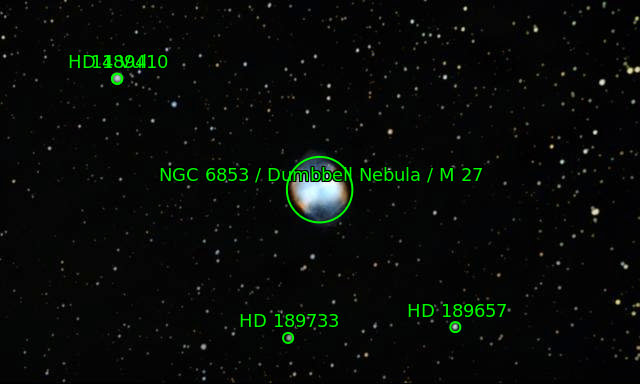
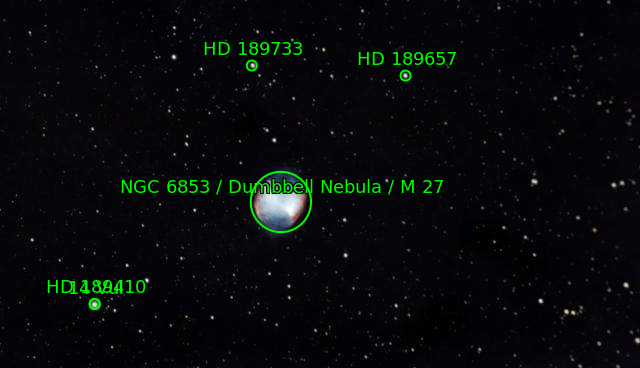
Versión 1.0

diff --git a/Reports/collection.tex b/Reports/collection.tex
@@ -104,6 +104,12 @@ The Andromeda Galaxy is a barred spiral galaxy and is the nearest major galaxy t
 }\ \\
 \includegraphics[width=\textwidth]{/home/lcv/Dropbox/AstroPhotography/Imaging/Grayscale/Ghost_Of_Cassiopeia.jpg}
 \begin{center}
+ \ \newpage
+\includegraphics[width=0.75\textwidth]{/home/lcv/Dropbox/AstroPhotography/Imaging/Annotated/Ghost_Of_Cassiopeia_Annotated}
+
+\includegraphics[height=5cm]{/home/lcv/Dropbox/AstroPhotography/Imaging/Annotated/Ghost_Of_Cassiopeia_Globe}
+\includegraphics[height=5cm]{/home/lcv/Dropbox/AstroPhotography/Imaging/Annotated/Ghost_Of_Cassiopeia_Close.jpg}
+\includegraphics[height=5cm]{/home/lcv/Dropbox/AstroPhotography/Imaging/Annotated/Ghost_Of_Cassiopeia_Closer.jpg}
 \end{center}
 \section{HD225526}
 \includegraphics[width=\textwidth]{/home/lcv/Dropbox/AstroPhotography/Imaging/Original/HD225526.jpg}
@@ -112,6 +118,12 @@ The Andromeda Galaxy is a barred spiral galaxy and is the nearest major galaxy t
 }\ \\
 \includegraphics[width=\textwidth]{/home/lcv/Dropbox/AstroPhotography/Imaging/Grayscale/HD225526.jpg}
 \begin{center}
+ \ \newpage
+\includegraphics[width=0.75\textwidth]{/home/lcv/Dropbox/AstroPhotography/Imaging/Annotated/HD225526_Annotated}
+
+\includegraphics[height=5cm]{/home/lcv/Dropbox/AstroPhotography/Imaging/Annotated/HD225526_Globe}
+\includegraphics[height=5cm]{/home/lcv/Dropbox/AstroPhotography/Imaging/Annotated/HD225526_Close.jpg}
+\includegraphics[height=5cm]{/home/lcv/Dropbox/AstroPhotography/Imaging/Annotated/HD225526_Closer.jpg}
 \end{center}
 \section{Heart Nebula}
 \includegraphics[width=\textwidth]{/home/lcv/Dropbox/AstroPhotography/Imaging/Original/Heart_Nebula.jpg}
@@ -120,6 +132,12 @@ The Andromeda Galaxy is a barred spiral galaxy and is the nearest major galaxy t
 }\ \\
 \includegraphics[width=\textwidth]{/home/lcv/Dropbox/AstroPhotography/Imaging/Grayscale/Heart_Nebula.jpg}
 \begin{center}
+ \ \newpage
+\includegraphics[width=0.75\textwidth]{/home/lcv/Dropbox/AstroPhotography/Imaging/Annotated/Heart_Nebula_Annotated}
+
+\includegraphics[height=5cm]{/home/lcv/Dropbox/AstroPhotography/Imaging/Annotated/Heart_Nebula_Globe}
+\includegraphics[height=5cm]{/home/lcv/Dropbox/AstroPhotography/Imaging/Annotated/Heart_Nebula_Close.jpg}
+\includegraphics[height=5cm]{/home/lcv/Dropbox/AstroPhotography/Imaging/Annotated/Heart_Nebula_Closer.jpg}
 \end{center}
 \section{Helix Nebula}
 \includegraphics[width=\textwidth]{/home/lcv/Dropbox/AstroPhotography/Imaging/Original/Helix_Nebula.jpg}
@@ -128,6 +146,12 @@ The Andromeda Galaxy is a barred spiral galaxy and is the nearest major galaxy t
 }\ \\
 \includegraphics[width=\textwidth]{/home/lcv/Dropbox/AstroPhotography/Imaging/Grayscale/Helix_Nebula.jpg}
 \begin{center}
+ \ \newpage
+\includegraphics[width=0.75\textwidth]{/home/lcv/Dropbox/AstroPhotography/Imaging/Annotated/Helix_Nebula_Annotated}
+
+\includegraphics[height=5cm]{/home/lcv/Dropbox/AstroPhotography/Imaging/Annotated/Helix_Nebula_Globe}
+\includegraphics[height=5cm]{/home/lcv/Dropbox/AstroPhotography/Imaging/Annotated/Helix_Nebula_Close.jpg}
+\includegraphics[height=5cm]{/home/lcv/Dropbox/AstroPhotography/Imaging/Annotated/Helix_Nebula_Closer.jpg}
 \end{center}
 \section{Lagoon Nebula}
 \includegraphics[width=\textwidth]{/home/lcv/Dropbox/AstroPhotography/Imaging/Original/Lagoon_Nebula.jpg}
@@ -136,6 +160,12 @@ The Andromeda Galaxy is a barred spiral galaxy and is the nearest major galaxy t
 }\ \\
 \includegraphics[width=\textwidth]{/home/lcv/Dropbox/AstroPhotography/Imaging/Grayscale/Lagoon_Nebula.jpg}
 \begin{center}
+ \ \newpage
+\includegraphics[width=0.75\textwidth]{/home/lcv/Dropbox/AstroPhotography/Imaging/Annotated/Lagoon_Nebula_Annotated}
+
+\includegraphics[height=5cm]{/home/lcv/Dropbox/AstroPhotography/Imaging/Annotated/Lagoon_Nebula_Globe}
+\includegraphics[height=5cm]{/home/lcv/Dropbox/AstroPhotography/Imaging/Annotated/Lagoon_Nebula_Close.jpg}
+\includegraphics[height=5cm]{/home/lcv/Dropbox/AstroPhotography/Imaging/Annotated/Lagoon_Nebula_Closer.jpg}
 \end{center}
 \section{Pacman Nebula}
 \includegraphics[width=\textwidth]{/home/lcv/Dropbox/AstroPhotography/Imaging/Original/Pacman_Nebula.jpg}
@@ -144,6 +174,12 @@ The Andromeda Galaxy is a barred spiral galaxy and is the nearest major galaxy t
 }\ \\
 \includegraphics[width=\textwidth]{/home/lcv/Dropbox/AstroPhotography/Imaging/Grayscale/Pacman_Nebula.jpg}
 \begin{center}
+ \ \newpage
+\includegraphics[width=0.75\textwidth]{/home/lcv/Dropbox/AstroPhotography/Imaging/Annotated/Pacman_Nebula_Annotated}
+
+\includegraphics[height=5cm]{/home/lcv/Dropbox/AstroPhotography/Imaging/Annotated/Pacman_Nebula_Globe}
+\includegraphics[height=5cm]{/home/lcv/Dropbox/AstroPhotography/Imaging/Annotated/Pacman_Nebula_Close.jpg}
+\includegraphics[height=5cm]{/home/lcv/Dropbox/AstroPhotography/Imaging/Annotated/Pacman_Nebula_Closer.jpg}
 \end{center}
 \section{Pleiades Cluster}
 \includegraphics[width=\textwidth]{/home/lcv/Dropbox/AstroPhotography/Imaging/Original/Pleiades_Cluster.jpg}
@@ -152,6 +188,12 @@ The Andromeda Galaxy is a barred spiral galaxy and is the nearest major galaxy t
 }\ \\
 \includegraphics[width=\textwidth]{/home/lcv/Dropbox/AstroPhotography/Imaging/Grayscale/Pleiades_Cluster.jpg}
 \begin{center}
+ \ \newpage
+\includegraphics[width=0.75\textwidth]{/home/lcv/Dropbox/AstroPhotography/Imaging/Annotated/Pleiades_Cluster_Annotated}
+
+\includegraphics[height=5cm]{/home/lcv/Dropbox/AstroPhotography/Imaging/Annotated/Pleiades_Cluster_Globe}
+\includegraphics[height=5cm]{/home/lcv/Dropbox/AstroPhotography/Imaging/Annotated/Pleiades_Cluster_Close.jpg}
+\includegraphics[height=5cm]{/home/lcv/Dropbox/AstroPhotography/Imaging/Annotated/Pleiades_Cluster_Closer.jpg}
 \end{center}
 \section{Swann Nebula}
 \includegraphics[width=\textwidth]{/home/lcv/Dropbox/AstroPhotography/Imaging/Original/Swann_Nebula.jpg}
@@ -160,6 +202,12 @@ The Andromeda Galaxy is a barred spiral galaxy and is the nearest major galaxy t
 }\ \\
 \includegraphics[width=\textwidth]{/home/lcv/Dropbox/AstroPhotography/Imaging/Grayscale/Swann_Nebula.jpg}
 \begin{center}
+ \ \newpage
+\includegraphics[width=0.75\textwidth]{/home/lcv/Dropbox/AstroPhotography/Imaging/Annotated/Swann_Nebula_Annotated}
+
+\includegraphics[height=5cm]{/home/lcv/Dropbox/AstroPhotography/Imaging/Annotated/Swann_Nebula_Globe}
+\includegraphics[height=5cm]{/home/lcv/Dropbox/AstroPhotography/Imaging/Annotated/Swann_Nebula_Close.jpg}
+\includegraphics[height=5cm]{/home/lcv/Dropbox/AstroPhotography/Imaging/Annotated/Swann_Nebula_Closer.jpg}
 \end{center}
 \section{The Moon}
 \includegraphics[width=\textwidth]{/home/lcv/Dropbox/AstroPhotography/Imaging/Original/The_Moon.jpg}
@@ -175,6 +223,12 @@ The Andromeda Galaxy is a barred spiral galaxy and is the nearest major galaxy t
 }\ \\
 \includegraphics[width=\textwidth]{/home/lcv/Dropbox/AstroPhotography/Imaging/Grayscale/Trifid_Nebula.jpg}
 \begin{center}
+ \ \newpage
+\includegraphics[width=0.75\textwidth]{/home/lcv/Dropbox/AstroPhotography/Imaging/Annotated/Trifid_Nebula_Annotated}
+
+\includegraphics[height=5cm]{/home/lcv/Dropbox/AstroPhotography/Imaging/Annotated/Trifid_Nebula_Globe}
+\includegraphics[height=5cm]{/home/lcv/Dropbox/AstroPhotography/Imaging/Annotated/Trifid_Nebula_Close.jpg}
+\includegraphics[height=5cm]{/home/lcv/Dropbox/AstroPhotography/Imaging/Annotated/Trifid_Nebula_Closer.jpg}
 \end{center}
 \section{Western Veil Nebula}
 \includegraphics[width=\textwidth]{/home/lcv/Dropbox/AstroPhotography/Imaging/Original/Western_Veil_Nebula.jpg}
@@ -183,6 +237,12 @@ The Andromeda Galaxy is a barred spiral galaxy and is the nearest major galaxy t
 }\ \\
 \includegraphics[width=\textwidth]{/home/lcv/Dropbox/AstroPhotography/Imaging/Grayscale/Western_Veil_Nebula.jpg}
 \begin{center}
+ \ \newpage
+\includegraphics[width=0.75\textwidth]{/home/lcv/Dropbox/AstroPhotography/Imaging/Annotated/Western_Veil_Nebula_Annotated}
+
+\includegraphics[height=5cm]{/home/lcv/Dropbox/AstroPhotography/Imaging/Annotated/Western_Veil_Nebula_Globe}
+\includegraphics[height=5cm]{/home/lcv/Dropbox/AstroPhotography/Imaging/Annotated/Western_Veil_Nebula_Close.jpg}
+\includegraphics[height=5cm]{/home/lcv/Dropbox/AstroPhotography/Imaging/Annotated/Western_Veil_Nebula_Closer.jpg}
 \end{center}
 \section{Wizard Nebula}
 \includegraphics[width=\textwidth]{/home/lcv/Dropbox/AstroPhotography/Imaging/Original/Wizard_Nebula.jpg}
@@ -191,5 +251,10 @@ The Andromeda Galaxy is a barred spiral galaxy and is the nearest major galaxy t
 }\ \\
 \includegraphics[width=\textwidth]{/home/lcv/Dropbox/AstroPhotography/Imaging/Grayscale/Wizard_Nebula.jpg}
 \begin{center}
+ \ \newpage
+\includegraphics[width=0.75\textwidth]{/home/lcv/Dropbox/AstroPhotography/Imaging/Annotated/Wizard_Nebula_Annotated}
+
+\includegraphics[height=5cm]{/home/lcv/Dropbox/AstroPhotography/Imaging/Annotated/Wizard_Nebula_Close.jpg}
+\includegraphics[height=5cm]{/home/lcv/Dropbox/AstroPhotography/Imaging/Annotated/Wizard_Nebula_Closer.jpg}
 \end{center}
 

diff --git a/Reports/Workflow/Workflow.tex b/Reports/Workflow/Workflow.tex
@@ -1,7 +1,6 @@
 \documentclass[a4paper,landscape,english,12pt]{article}
 \usepackage{../Common/AstroReport}
 \begin{document}
-	
 \AstroCover{Workflow}{0.0}
 
 \section*{About this document}
